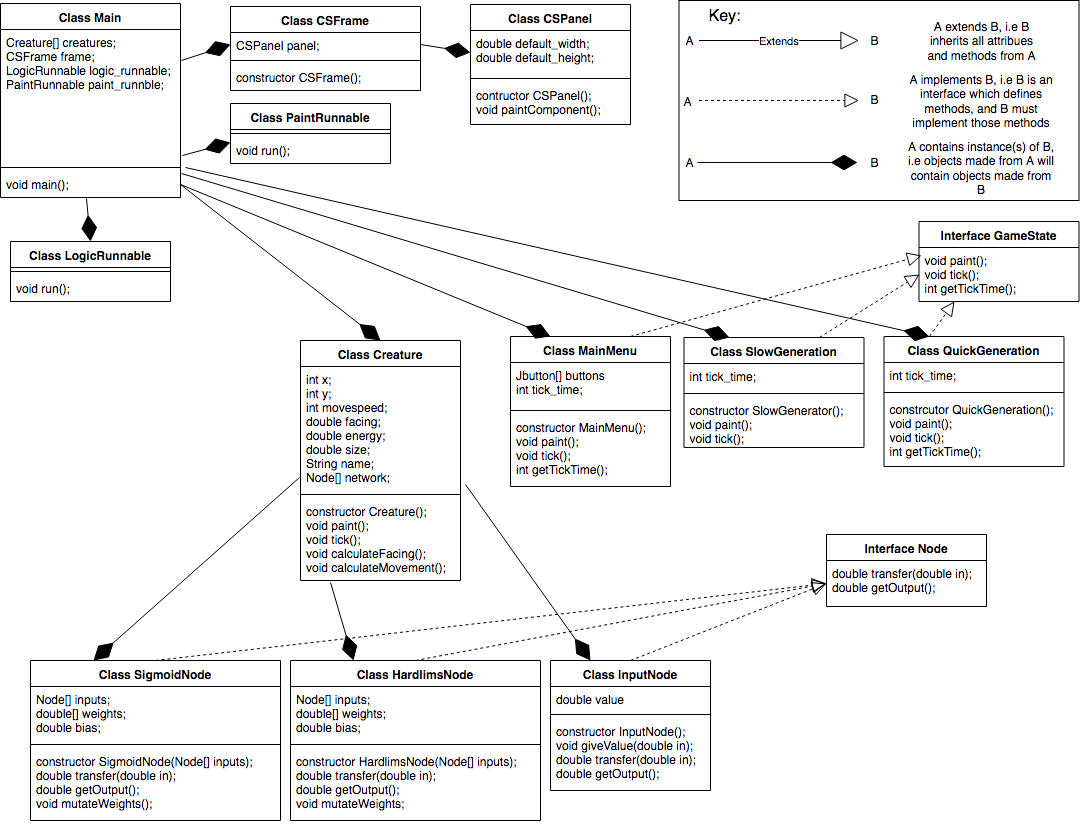
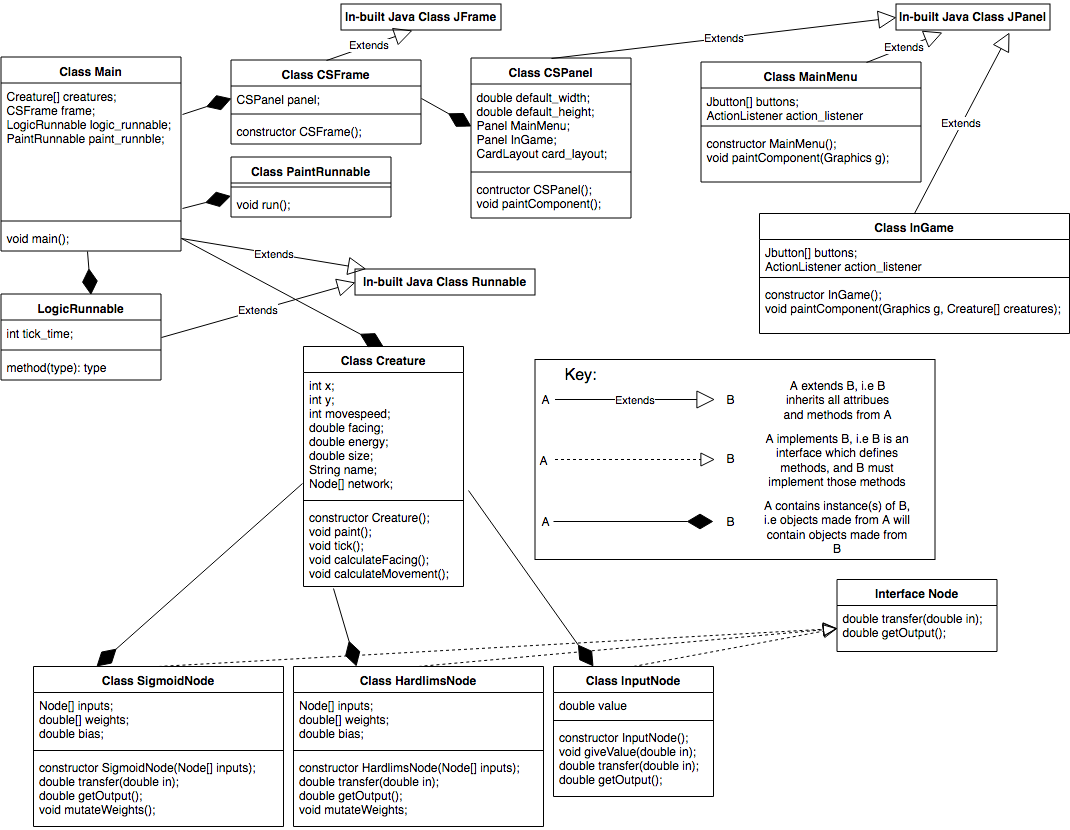
CardLayout panel and switching between gamestates
- Change CSPanel to use the CardLayout layout, to enable switching between menus
- Create MainMenu and InGame panels
- Update record of progress
- Update revised gantt chart

diff --git a/workspace/CreatureSim/src/creaturesim/Main.java b/workspace/CreatureSim/src/creaturesim/Main.java
@@ -16,53 +16,53 @@ public class Main{
 	 * @param args arguments passed into the program upon running it
 	 */
 	public static void main(String[] args){
-		//frame = new CSFrame(); 						// Creates a new instance of the CSFrame class
+		frame = new CSFrame(); 						// Creates a new instance of the CSFrame class
 		
-		int rotation_1s = 0;
-		int rotation_0s = 0;
-		int movement_1s = 0;
-		int movement_0s = 0;
-		
-		for(int i = 0; i < 10000; i++){
-			// Setup net
-			SigmoidInputNode i0 = new SigmoidInputNode();	// Bearing from north, clockwise, in radians
-			SigmoidInputNode i1 = new SigmoidInputNode();	// Distance to closest object in the direction they're facing
-			SigmoidInputNode i2 = new SigmoidInputNode();	// Size (radius) of closest object, in metres
-			SigmoidInputNode i3 = new SigmoidInputNode();	// Size (radius) of creature, in metres
-			SigmoidInputNode i4 = new SigmoidInputNode();	// Creature's current movement speed, in metres per second
-			SigmoidInputNode[] inputs = new SigmoidInputNode[]{i0, i1, i2, i3, i4};
-			SigmoidNode h0 = new SigmoidNode(inputs);
-			SigmoidNode h1 = new SigmoidNode(inputs);
-			SigmoidNode h2 = new SigmoidNode(inputs);
-			SigmoidNode h3 = new SigmoidNode(inputs);
-			SigmoidNode[] hiddens = new SigmoidNode[]{h0, h1, h2, h3};
-			HardlimNode u0 = new HardlimNode(hiddens);		// Rotation of the creature. 1 for clockwise, 0 for anti-clockwise
-			HardlimNode u1 = new HardlimNode(hiddens);		// Movement of the creature. 1 for forwards, 0 for backwards
-			
-			// Give net test data
-			i0.giveValue(Math.random());
-			i1.giveValue(Math.random());
-			i2.giveValue(Math.random());
-			i3.giveValue(Math.random());
-			i4.giveValue(Math.random());
-			
-			// Count frequency of 1s and 0s
-			if(u1.getOutput() == 0){
-				movement_0s++;
-			}
-			else{
-				movement_1s++;
-			}
-			if(u0.getOutput() == 0){
-				rotation_0s++;
-			}
-			else{
-				rotation_1s++;
-			}
-		}
-		System.out.println("Output of 1 was obtained from u0: " + Integer.toString(rotation_1s));
-		System.out.println("Output of 0 was obtained from u0: " + Integer.toString(rotation_0s));
-		System.out.println("Output of 1 was obtained from u1: " + Integer.toString(movement_1s));
-		System.out.println("Output of 0 was obtained from u1: " + Integer.toString(movement_0s));
+//		int rotation_1s = 0;
+//		int rotation_0s = 0;
+//		int movement_1s = 0;
+//		int movement_0s = 0;
+//		
+//		for(int i = 0; i < 10000; i++){
+//			// Setup net
+//			SigmoidInputNode i0 = new SigmoidInputNode();	// Bearing from north, clockwise, in radians
+//			SigmoidInputNode i1 = new SigmoidInputNode();	// Distance to closest object in the direction they're facing
+//			SigmoidInputNode i2 = new SigmoidInputNode();	// Size (radius) of closest object, in metres
+//			SigmoidInputNode i3 = new SigmoidInputNode();	// Size (radius) of creature, in metres
+//			SigmoidInputNode i4 = new SigmoidInputNode();	// Creature's current movement speed, in metres per second
+//			SigmoidInputNode[] inputs = new SigmoidInputNode[]{i0, i1, i2, i3, i4};
+//			SigmoidNode h0 = new SigmoidNode(inputs);
+//			SigmoidNode h1 = new SigmoidNode(inputs);
+//			SigmoidNode h2 = new SigmoidNode(inputs);
+//			SigmoidNode h3 = new SigmoidNode(inputs);
+//			SigmoidNode[] hiddens = new SigmoidNode[]{h0, h1, h2, h3};
+//			HardlimNode u0 = new HardlimNode(hiddens);		// Rotation of the creature. 1 for clockwise, 0 for anti-clockwise
+//			HardlimNode u1 = new HardlimNode(hiddens);		// Movement of the creature. 1 for forwards, 0 for backwards
+//			
+//			// Give net test data
+//			i0.giveValue(Math.random());
+//			i1.giveValue(Math.random());
+//			i2.giveValue(Math.random());
+//			i3.giveValue(Math.random());
+//			i4.giveValue(Math.random());
+//			
+//			// Count frequency of 1s and 0s
+//			if(u1.getOutput() == 0){
+//				movement_0s++;
+//			}
+//			else{
+//				movement_1s++;
+//			}
+//			if(u0.getOutput() == 0){
+//				rotation_0s++;
+//			}
+//			else{
+//				rotation_1s++;
+//			}
+//		}
+//		System.out.println("Output of 1 was obtained from u0: " + Integer.toString(rotation_1s));
+//		System.out.println("Output of 0 was obtained from u0: " + Integer.toString(rotation_0s));
+//		System.out.println("Output of 1 was obtained from u1: " + Integer.toString(movement_1s));
+//		System.out.println("Output of 0 was obtained from u1: " + Integer.toString(movement_0s));
 	}
 }

diff --git a/workspace/CreatureSim/src/creaturesim/display/CSPanel.java b/workspace/CreatureSim/src/creaturesim/display/CSPanel.java
@@ -1,5 +1,6 @@
 package creaturesim.display;
 
+import java.awt.CardLayout;
 import java.awt.Color;
 import java.awt.Dimension;
 import java.awt.Graphics;
@@ -8,7 +9,7 @@ import java.awt.Graphics2D;
 import javax.swing.JPanel;
 
 /**
- * Acts as a canvas on which things can be drawn.
+ * Acts as a canvas on which things can be drawn, and other components can be added
  * 
  * @author jakesamuellawrence
  * @see JPanel
@@ -17,30 +18,26 @@ public class CSPanel extends JPanel{
 	int default_x_resolution = 1280;
 	int default_y_resolution = 720;
 	
+	CardLayout layout;
+	JPanel main_menu;
+	JPanel in_game;
+	
 	/**
 	 * Constructor for CSPanel. Calls parent constructor from JPanel,
 	 * then sets the size.
 	 */
 	public CSPanel(){
-		super();
-		this.setPreferredSize(new Dimension(default_x_resolution, default_y_resolution)); // Sets the size of the window
-	}
-	
-	/**
-	 * Overidden paintComponent method from JPanel. Is called when the repaint()
-	 * method is called
-	 * 
-	 * @param g Graphics context which can be painted on
-	 * @see JPanel
-	 */
-	@Override
-	public void paintComponent(Graphics g){
-		Graphics2D g2d = (Graphics2D)g; // downcast g to subtype Graphics2D, so that more methods are available
+		super(new CardLayout());
+		this.layout = (CardLayout) this.getLayout();
 		
-		// Driver code to test canvas
-		g.setColor(Color.black);
-		g.fillRect(0, 0, getWidth(), getHeight());
-		g.setColor(Color.red);
-		g.fillOval(620, 340, 40, 40);
+		main_menu = new MainMenu();
+		in_game = new InGame();
+		
+		this.add(main_menu, "Main Menu");
+		this.add(in_game, "In Game");
+		
+		layout.show(this, "Main Menu");
+		
+		this.setPreferredSize(new Dimension(default_x_resolution, default_y_resolution)); // Sets the size of the window
 	}
 }

diff --git a/workspace/CreatureSim/src/creaturesim/display/MainMenu.java b/workspace/CreatureSim/src/creaturesim/display/MainMenu.java
@@ -1,0 +1,26 @@
+package creaturesim.display;
+
+import java.awt.Color;
+import java.awt.Graphics;
+
+import javax.swing.JPanel;
+
+public class MainMenu extends JPanel{
+	public MainMenu(){
+		super();
+	}
+	
+	/**
+	 * Overridden paintComponent method from JPanel. Is called when the repaint()
+	 * method is called.
+	 * 
+	 * Paints the background green
+	 * 
+	 * @param g Graphics context which can be painted on
+	 * @see JPanel
+	 */
+	public void paintComponent(Graphics g){
+		g.setColor(Color.green);
+		g.fillRect(0, 0, 1280, 720);
+	}
+}

diff --git a/workspace/CreatureSim/src/creaturesim/display/InGame.java b/workspace/CreatureSim/src/creaturesim/display/InGame.java
@@ -1,0 +1,26 @@
+package creaturesim.display;
+
+import java.awt.Color;
+import java.awt.Graphics;
+
+import javax.swing.JPanel;
+
+public class InGame extends JPanel{
+	public InGame(){
+		super();
+	}
+	
+	/**
+	 * Overidden paintComponent method from JPanel. Is called when the repaint()
+	 * method is called.
+	 * 
+	 * Paints the background black.
+	 * 
+	 * @param g Graphics context which can be painted on
+	 * @see JPanel
+	 */
+	public void paintComponent(Graphics g){
+		g.setColor(Color.black);
+		g.fillRect(0, 0, 1280, 720);
+	}
+}
